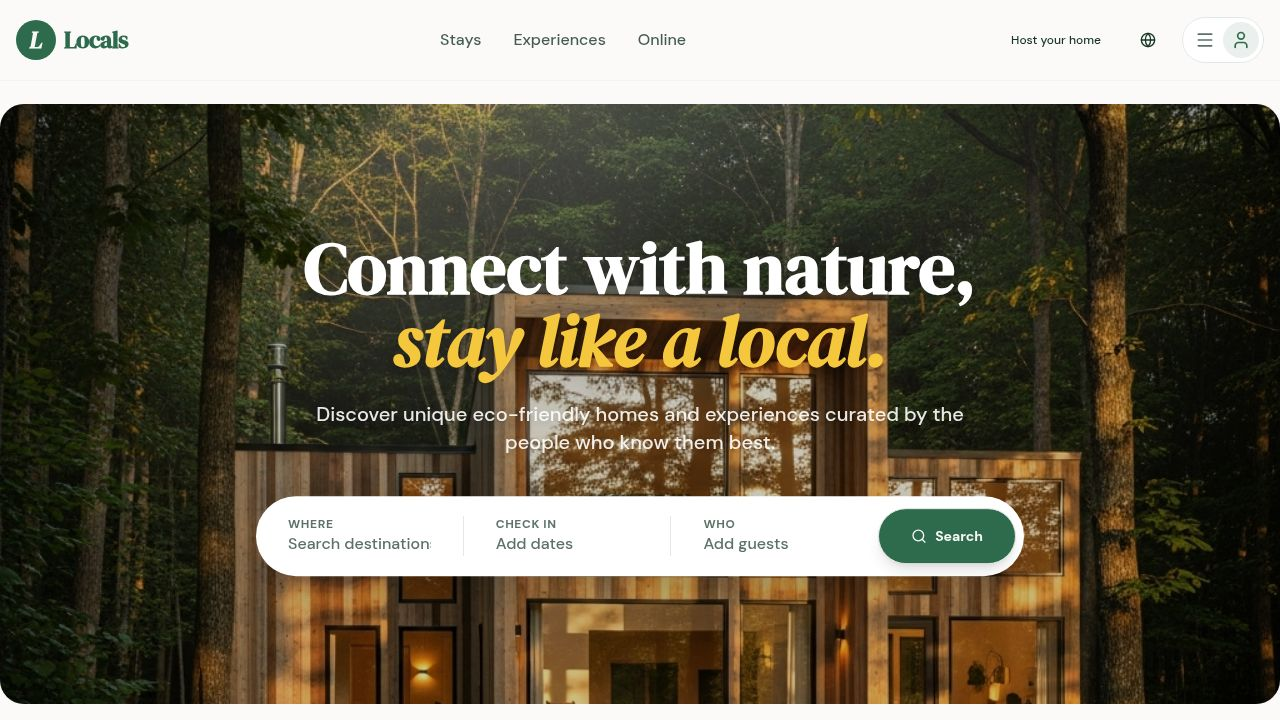
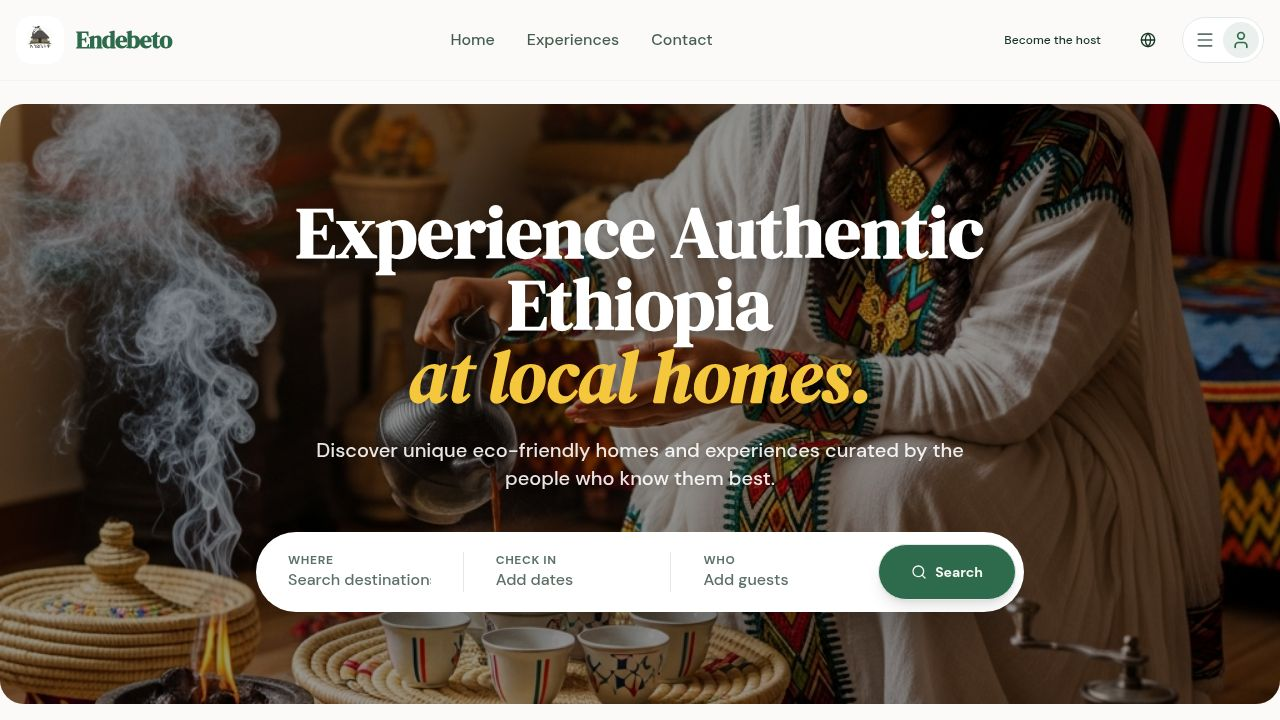
Update the platform to showcase authentic Ethiopian cultural experiences
Refactor the frontend to include Ethiopian cultural experiences, update listing data, and refine UI components with relevant imagery and professional icons.

Replit-Commit-Author: Agent
Replit-Commit-Session-Id: 74bd0132-bc31-410b-89e9-d55437a7de20
Replit-Commit-Checkpoint-Type: full_checkpoint
Replit-Commit-Event-Id: e7b453dd-cb50-4f97-b0f1-ee55e976bf00
Replit-Commit-Screenshot-Url: https://storage.googleapis.com/screenshot-production-us-central1/10aea41e-5ecf-4d86-bdbc-0d0d6bc9d1b2/74bd0132-bc31-410b-89e9-d55437a7de20/MIDjm8W
Replit-Helium-Checkpoint-Created: true

diff --git a/client/src/lib/mockData.ts b/client/src/lib/mockData.ts
@@ -1,76 +1,155 @@
 export const categories = [
-  { id: "all", name: "All Homes", icon: "Home" },
-  { id: "cabin", name: "Cabins", icon: "Tent" },
-  { id: "treehouse", name: "Treehouses", icon: "Trees" },
-  { id: "cottage", name: "Cottages", icon: "Warehouse" },
-  { id: "apartment", name: "Eco Apts", icon: "Building2" },
+  { id: "all", name: "All Experiences", icon: "Compass" },
+  { id: "coffee", name: "Coffee Ceremony", icon: "Coffee" },
+  { id: "foods", name: "Local Foods", icon: "UtensilsCrossed" },
+  { id: "dances", name: "Local Dances", icon: "Music" },
+  { id: "crafts", name: "Crafts", icon: "Palette" },
+  { id: "clothing", name: "Clothing", icon: "Shirt" },
 ];
 
 export const listings = [
   {
     id: 1,
-    title: "The Green Loft",
-    location: "Portland, Oregon",
-    price: 145,
-    rating: 4.92,
-    reviews: 128,
-    image: "/images/listing-1.png",
-    category: "apartment",
-    tags: ["Eco-friendly", "City Center"],
+    title: "Traditional Coffee Ceremony",
+    location: "Addis Ababa",
+    price: 45,
+    rating: 4.98,
+    reviews: 234,
+    image: "/images/coffee-ceremony-experience.png",
+    category: "coffee",
+    description: "Experience the ancient Ethiopian coffee ceremony (Buna) with local hosts in their home. Learn the preparation ritual, roasting, grinding, and brewing methods that have been passed down through generations.",
+    tags: ["Cultural", "Traditional"],
   },
   {
     id: 2,
-    title: "Sunflower Cottage",
-    location: "Cotswolds, UK",
-    price: 210,
-    rating: 4.98,
-    reviews: 85,
-    image: "/images/listing-2.png",
-    category: "cottage",
-    tags: ["Garden", "Historic"],
+    title: "Injera Bread Making",
+    location: "Addis Ababa",
+    price: 38,
+    rating: 4.95,
+    reviews: 187,
+    image: "/images/injera-experience.png",
+    category: "foods",
+    description: "Master the art of making authentic Injera, Ethiopia's iconic sourdough flatbread. Learn the fermentation process and prepare traditional meals with your host family.",
+    tags: ["Cooking", "Family"],
   },
   {
     id: 3,
-    title: "Canopy Retreat",
-    location: "Bali, Indonesia",
-    price: 350,
-    rating: 5.0,
-    reviews: 42,
-    image: "/images/listing-3.png",
-    category: "treehouse",
-    tags: ["Luxury", "Nature"],
+    title: "Doro Wot Cooking Class",
+    location: "Dire Dawa",
+    price: 42,
+    rating: 4.96,
+    reviews: 156,
+    image: "/images/doro-wot-experience.png",
+    category: "foods",
+    description: "Prepare the beloved Doro Wot, a spiced chicken stew that represents the heart of Ethiopian cuisine. Cook alongside a local chef using traditional recipes and authentic spices.",
+    tags: ["Cooking", "Spiced"],
   },
   {
     id: 4,
-    title: "Forest Edge Cabin",
-    location: "Vancouver, BC",
-    price: 180,
-    rating: 4.85,
-    reviews: 210,
-    image: "/images/hero-cabin.png",
-    category: "cabin",
-    tags: ["Secluded", "Hiking"],
+    title: "Azmari Dance Experience",
+    location: "Addis Ababa",
+    price: 50,
+    rating: 5.0,
+    reviews: 203,
+    image: "/images/dance-experience.png",
+    category: "dances",
+    description: "Join a lively evening of traditional Azmari dancing and live music. Learn the shoulder-shaking movements and celebrate Ethiopian culture with local musicians and dancers.",
+    tags: ["Entertainment", "Live Music"],
   },
   {
     id: 5,
-    title: "Solar Powered Villa",
-    location: "Tuscany, Italy",
-    price: 295,
-    rating: 4.95,
-    reviews: 67,
-    image: "/images/listing-2.png",
-    category: "cottage",
-    tags: ["Sustainable", "Vineyard"],
+    title: "Traditional Basket Weaving",
+    location: "Bahir Dar",
+    price: 35,
+    rating: 4.92,
+    reviews: 128,
+    image: "/images/crafts-experience.png",
+    category: "crafts",
+    description: "Discover the ancient art of Ethiopian basket weaving with master craftspeople. Create your own traditional basket using natural materials and centuries-old techniques.",
+    tags: ["Artisan", "Hands-on"],
   },
   {
     id: 6,
-    title: "Urban Jungle Studio",
-    location: "Berlin, Germany",
-    price: 110,
-    rating: 4.78,
-    reviews: 315,
-    image: "/images/listing-1.png",
-    category: "apartment",
-    tags: ["Nightlife", "Modern"],
+    title: "Habesha Clothing Styling",
+    location: "Addis Ababa",
+    price: 40,
+    rating: 4.94,
+    reviews: 92,
+    image: "/images/clothing-experience.png",
+    category: "clothing",
+    description: "Wear and learn about traditional Habesha clothing. Local experts teach you about the embroidered shawls (netela), traditional dresses, and their cultural significance.",
+    tags: ["Fashion", "Cultural"],
+  },
+  {
+    id: 7,
+    title: "Advanced Coffee Roasting",
+    location: "Hawassa",
+    price: 55,
+    rating: 4.99,
+    reviews: 89,
+    image: "/images/coffee-ceremony-experience.png",
+    category: "coffee",
+    description: "Deep dive into coffee roasting with local coffee farmers. Visit their farm, roast beans traditionally, and understand the journey from seed to cup.",
+    tags: ["Agricultural", "Farm Visit"],
+  },
+  {
+    id: 8,
+    title: "Multi-Course Ethiopian Feast",
+    location: "Gondar",
+    price: 60,
+    rating: 4.97,
+    reviews: 145,
+    image: "/images/injera-experience.png",
+    category: "foods",
+    description: "Enjoy a comprehensive Ethiopian dining experience with multiple traditional dishes. Learn about each course and its place in Ethiopian culinary heritage.",
+    tags: ["Feast", "Multi-Course"],
+  },
+  {
+    id: 9,
+    title: "Contemporary Dance Fusion",
+    location: "Addis Ababa",
+    price: 48,
+    rating: 4.93,
+    reviews: 67,
+    image: "/images/dance-experience.png",
+    category: "dances",
+    description: "Blend traditional Ethiopian dance moves with contemporary choreography. Learn from professional dancers in an interactive workshop.",
+    tags: ["Modern", "Workshop"],
+  },
+  {
+    id: 10,
+    title: "Pottery & Clay Crafting",
+    location: "Lalibela",
+    price: 36,
+    rating: 4.91,
+    reviews: 73,
+    image: "/images/crafts-experience.png",
+    category: "crafts",
+    description: "Create traditional Ethiopian pottery using clay and hand-molding techniques. Perfect your craft under expert guidance in a rural village setting.",
+    tags: ["Artisan", "Village"],
+  },
+  {
+    id: 11,
+    title: "Shama Dress Workshop",
+    location: "Dire Dawa",
+    price: 38,
+    rating: 4.89,
+    reviews: 54,
+    image: "/images/clothing-experience.png",
+    category: "clothing",
+    description: "Learn about traditional Ethiopian Shama dresses with intricate patterns. Understand the symbolism and weaving heritage behind these stunning garments.",
+    tags: ["Traditional", "Weaving"],
+  },
+  {
+    id: 12,
+    title: "Spice Market & Food Tour",
+    location: "Addis Ababa",
+    price: 32,
+    rating: 4.96,
+    reviews: 118,
+    image: "/images/doro-wot-experience.png",
+    category: "foods",
+    description: "Explore local spice markets with a knowledgeable guide. Discover authentic Ethiopian spices and learn how they're used in traditional cooking.",
+    tags: ["Market Tour", "Spices"],
   },
 ];

diff --git a/client/src/pages/Home.tsx b/client/src/pages/Home.tsx
@@ -4,16 +4,17 @@ import { Hero } from "@/components/home/Hero";
 import { ListingCard } from "@/components/listings/ListingCard";
 import { Footer } from "@/components/layout/Footer";
 import { categories, listings } from "@/lib/mockData";
-import { Trees, Tent, Warehouse, Building2, Home } from "lucide-react";
+import { Coffee, UtensilsCrossed, Music, Palette, Shirt, Compass } from "lucide-react";
 import { cn } from "@/lib/utils";
 
 // Map icon strings to components
 const iconMap = {
-  Home: Home,
-  Tent: Tent,
-  Trees: Trees,
-  Warehouse: Warehouse,
-  Building2: Building2,
+  Compass: Compass,
+  Coffee: Coffee,
+  UtensilsCrossed: UtensilsCrossed,
+  Music: Music,
+  Palette: Palette,
+  Shirt: Shirt,
 };
 
 export default function HomePage() {
@@ -30,36 +31,31 @@ export default function HomePage() {
         <Hero />
         
         <main className="container mx-auto px-4 py-8">
-          {/* Categories */}
-          <div className="flex items-center gap-8 overflow-x-auto pb-6 mb-8 scrollbar-hide">
-            {categories.map((cat) => {
-              const Icon = iconMap[cat.icon as keyof typeof iconMap];
-              const isActive = activeCategory === cat.id;
-              
-              return (
-                <button
-                  key={cat.id}
-                  onClick={() => setActiveCategory(cat.id)}
-                  className={cn(
-                    "flex flex-col items-center gap-2 min-w-[64px] transition-all group",
-                    isActive 
-                      ? "text-primary opacity-100" 
-                      : "text-muted-foreground opacity-60 hover:opacity-100 hover:text-foreground"
-                  )}
-                >
-                  <Icon className={cn("w-6 h-6", isActive && "stroke-[2.5px]")} />
-                  <span className={cn(
-                    "text-xs font-medium whitespace-nowrap relative",
-                    isActive && "font-bold"
-                  )}>
-                    {cat.name}
-                    {isActive && (
-                      <span className="absolute -bottom-3 left-1/2 -translate-x-1/2 w-8 h-0.5 bg-primary rounded-full" />
+          {/* Categories Header */}
+          <div className="mb-8">
+            <h2 className="text-2xl font-serif font-bold text-foreground mb-6">Browse Authentic Experiences</h2>
+            <div className="flex items-center gap-4 overflow-x-auto pb-4 scrollbar-hide">
+              {categories.map((cat) => {
+                const Icon = iconMap[cat.icon as keyof typeof iconMap];
+                const isActive = activeCategory === cat.id;
+                
+                return (
+                  <button
+                    key={cat.id}
+                    onClick={() => setActiveCategory(cat.id)}
+                    className={cn(
+                      "flex items-center gap-2 px-4 py-2 rounded-full font-medium transition-all whitespace-nowrap",
+                      isActive 
+                        ? "bg-primary text-primary-foreground shadow-md" 
+                        : "bg-muted text-foreground hover:bg-muted/80"
                     )}
-                  </span>
-                </button>
-              );
-            })}
+                  >
+                    <Icon className="w-5 h-5" />
+                    <span>{cat.name}</span>
+                  </button>
+                );
+              })}
+            </div>
           </div>
 
           {/* Listings Grid */}

diff --git a/client/src/components/home/Hero.tsx b/client/src/components/home/Hero.tsx
@@ -21,16 +21,16 @@ export function Hero() {
           <span className="italic text-secondary">at local homes.</span>
         </h1>
         <p className="text-lg md:text-xl text-white/90 mb-10 max-w-2xl mx-auto drop-shadow-md font-medium">
-          Discover unique eco-friendly homes and experiences curated by the people who know them best.
+          Immerse yourself in Ethiopian culture through coffee ceremonies, traditional cuisine, and local artisan crafts.
         </p>
 
         {/* Search Bar */}
         <div className="bg-white p-2 rounded-full shadow-2xl max-w-3xl mx-auto flex flex-col md:flex-row items-center gap-2 animate-in slide-in-from-bottom-8 duration-700 delay-200">
           <div className="flex-1 px-6 py-3 w-full md:w-auto text-left hover:bg-gray-50 rounded-full transition-colors cursor-pointer group">
-            <label className="block text-xs font-bold text-foreground/70 uppercase tracking-wider group-hover:text-primary transition-colors">Where</label>
+            <label className="block text-xs font-bold text-foreground/70 uppercase tracking-wider group-hover:text-primary transition-colors">Experience Type</label>
             <input 
               type="text" 
-              placeholder="Search destinations" 
+              placeholder="Coffee ceremony, food tour..." 
               className="w-full bg-transparent border-none outline-none text-foreground font-medium placeholder:text-muted-foreground"
             />
           </div>
@@ -38,20 +38,17 @@ export function Hero() {
           <div className="w-px h-10 bg-gray-200 hidden md:block" />
 
           <div className="flex-1 px-6 py-3 w-full md:w-auto text-left hover:bg-gray-50 rounded-full transition-colors cursor-pointer group">
-            <label className="block text-xs font-bold text-foreground/70 uppercase tracking-wider group-hover:text-primary transition-colors">Check in</label>
-            <div className="text-muted-foreground font-medium">Add dates</div>
-          </div>
-
-          <div className="w-px h-10 bg-gray-200 hidden md:block" />
-
-          <div className="flex-1 px-6 py-3 w-full md:w-auto text-left hover:bg-gray-50 rounded-full transition-colors cursor-pointer group">
-            <label className="block text-xs font-bold text-foreground/70 uppercase tracking-wider group-hover:text-primary transition-colors">Who</label>
-            <div className="text-muted-foreground font-medium">Add guests</div>
+            <label className="block text-xs font-bold text-foreground/70 uppercase tracking-wider group-hover:text-primary transition-colors">Location</label>
+            <input 
+              type="text" 
+              placeholder="City in Ethiopia" 
+              className="w-full bg-transparent border-none outline-none text-foreground font-medium placeholder:text-muted-foreground"
+            />
           </div>
 
           <Button size="lg" className="rounded-full w-full md:w-auto h-14 px-8 bg-primary hover:bg-primary/90 text-primary-foreground font-bold shadow-lg flex items-center gap-2">
             <Search className="w-5 h-5" />
-            <span>Search</span>
+            <span>Explore</span>
           </Button>
         </div>
       </div>

diff --git a/client/src/components/listings/ListingCard.tsx b/client/src/components/listings/ListingCard.tsx
@@ -10,6 +10,7 @@ interface ListingCardProps {
     rating: number;
     reviews: number;
     image: string;
+    description: string;
     tags: string[];
   };
 }
@@ -44,16 +45,19 @@ export function ListingCard({ listing }: ListingCardProps) {
             {listing.title}
           </h3>
           <p className="text-muted-foreground text-sm font-medium mt-1">{listing.location}</p>
+          <p className="text-foreground/60 text-xs mt-2 line-clamp-2 leading-relaxed">
+            {listing.description}
+          </p>
         </div>
         <div className="flex items-center gap-1 shrink-0">
           <Star className="w-4 h-4 fill-primary text-primary" />
-          <span className="font-medium text-foreground">{listing.rating}</span>
+          <span className="font-medium text-foreground text-sm">{listing.rating}</span>
         </div>
       </div>
 
-      <div className="mt-2 flex items-baseline gap-1">
+      <div className="mt-3 flex items-baseline gap-1">
         <span className="font-bold text-lg text-primary">${listing.price}</span>
-        <span className="text-muted-foreground">night</span>
+        <span className="text-muted-foreground text-sm">per person</span>
       </div>
     </div>
   );
